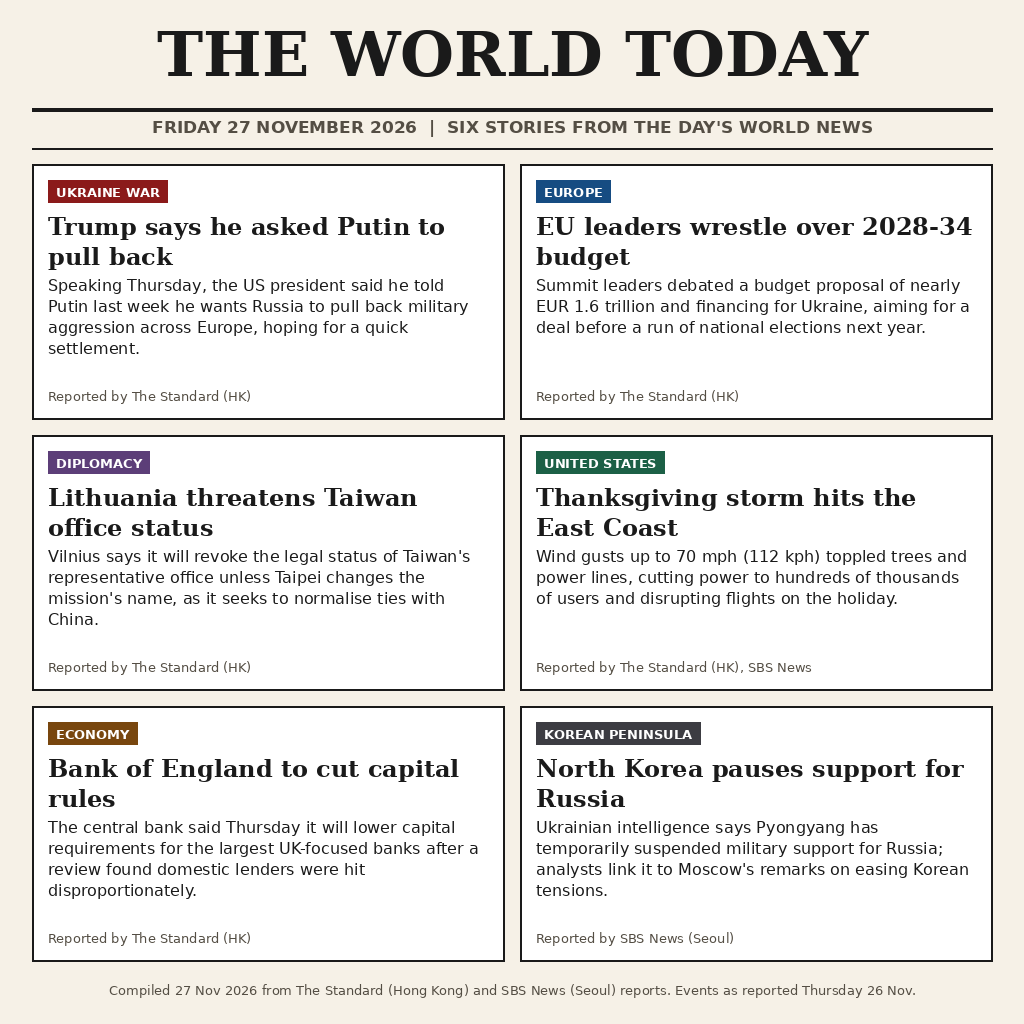
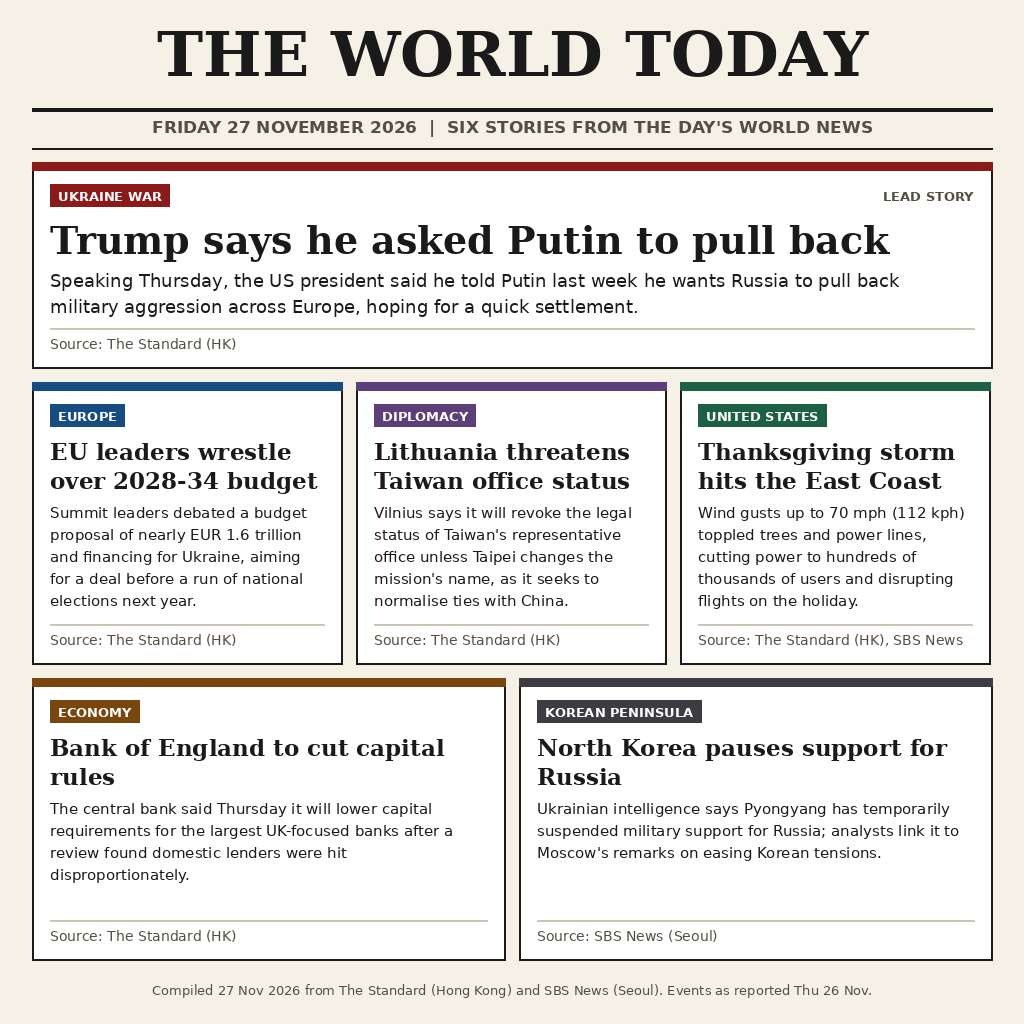
Give the page a lead story and roomier cards
Weaknesses seen on first render: all six cards had equal weight (no hierarchy),
and cards were cramped with orphaned headline words and uneven dead space.
Now: full-width lead (38px headline), 3+2 grid, colour-coded top bars, rules above
source lines; build asserts still guard overflow (it caught a too-short lead card).
Not fixed: the page is still text-only, with no imagery.

Changed region(s): [[0.0312, 0.1562, 0.9688, 0.875], [0.0312, 0.9062, 0.875, 0.9688]]

diff --git a/tools/build.py b/tools/build.py
@@ -105,9 +105,11 @@ def main():
     f_title = ImageFont.truetype(SERIF_B, 62)
     f_date = ImageFont.truetype(SANS_B, 17)
     f_tag = ImageFont.truetype(SANS_B, 13)
-    f_head = ImageFont.truetype(SERIF_B, 24)
-    f_body = ImageFont.truetype(SANS, 16)
-    f_src = ImageFont.truetype(SANS, 13)
+    f_head = ImageFont.truetype(SERIF_B, 23)
+    f_body = ImageFont.truetype(SANS, 15)
+    f_lead = ImageFont.truetype(SERIF_B, 38)
+    f_lead_body = ImageFont.truetype(SANS, 18)
+    f_src = ImageFont.truetype(SANS, 14)
     f_foot = ImageFont.truetype(SANS, 13)
 
     M = 32
@@ -123,38 +125,54 @@ def main():
     d.text((W // 2, 120), date, font=f_date, fill=MUTED, anchor="mt")
     d.rectangle([M, 148, W - M, 149], fill=INK)
 
-    # Cards: 2 columns x 3 rows
-    gap = 16
-    cw = (W - 2 * M - gap) // 2
-    top, bottom = 164, 962
-    ch = (bottom - top - 2 * gap) // 3
-    pad = 16
-    need_contrast(INK, CARD, "headline")
-    need_contrast(MUTED, CARD, "body/source")
-    need_contrast(WHITE, RED, "tag")
+    # Layout: full-width lead, then a row of 3 and a row of 2.
+    gap = 14
+    top, bottom = 162, 960
+    lead_h = 206
+    row_h = (bottom - top - lead_h - 2 * gap) // 2
+    full = W - 2 * M
+    c3 = (full - 2 * gap) // 3
+    c2 = (full - gap) // 2
+    slots = [(M, top, full, lead_h, True)]
+    y2 = top + lead_h + gap
+    slots += [(M + k * (c3 + gap), y2, c3, row_h, False) for k in range(3)]
+    y3 = y2 + row_h + gap
+    slots += [(M + k * (c2 + gap), y3, c2, row_h, False) for k in range(2)]
+    assert y3 + row_h <= bottom + 1, "cards overflow the page area"
+    assert len(slots) == len(STORIES)
 
-    for i, (tag, head, body, src, col) in enumerate(STORIES):
-        x = M + (i % 2) * (cw + gap)
-        y = top + (i // 2) * (ch + gap)
-        d.rectangle([x, y, x + cw, y + ch], fill=CARD, outline=INK, width=2)
+    need_contrast(INK, CARD, "headline/body")
+    need_contrast(MUTED, CARD, "source")
+    pad = 18
+    bar = 8
+
+    for i, ((tag, head, body, src, col), (x, y, w, h, lead)) in enumerate(zip(STORIES, slots)):
+        d.rectangle([x, y, x + w, y + h], fill=CARD, outline=INK, width=2)
+        d.rectangle([x, y, x + w, y + bar], fill=col)  # colour-coded top bar
         need_contrast(WHITE, col, f"tag colour {tag}")
+        fh = f_lead if lead else f_head
+        fb = f_lead_body if lead else f_body
+        lead_lh, body_lh = (44, 26) if lead else (29, 22)
+        iw = w - 2 * pad
         tw = int(d.textlength(tag, font=f_tag)) + 16
-        d.rectangle([x + pad, y + pad, x + pad + tw, y + pad + 22], fill=col)
-        d.text((x + pad + 8, y + pad + 4), tag, font=f_tag, fill=WHITE)
-        iw = cw - 2 * pad
-        hl = wrap(d, head, f_head, iw, 2, f"headline {i}")
-        cy = draw_lines(d, x + pad, y + pad + 32, hl, f_head, INK, 30)
-        bl = wrap(d, body, f_body, iw, 4, f"body {i}")
-        cy = draw_lines(d, x + pad, cy + 4, bl, f_body, INK, 21)
-        need_contrast(INK, CARD, "body")
-        src_text = "Reported by " + src
+        ty = y + bar + 14
+        d.rectangle([x + pad, ty, x + pad + tw, ty + 22], fill=col)
+        d.text((x + pad + 8, ty + 4), tag, font=f_tag, fill=WHITE)
+        if lead:
+            d.text((x + w - pad, ty + 4), "LEAD STORY", font=f_tag, fill=MUTED, anchor="ra")
+        hl = wrap(d, head, fh, iw, 2 if lead else 3, f"headline {i}")
+        cy = draw_lines(d, x + pad, ty + 34, hl, fh, INK, lead_lh)
+        bl = wrap(d, body, fb, iw, 3 if lead else 6, f"body {i}")
+        cy = draw_lines(d, x + pad, cy + 8, bl, fb, INK, body_lh)
+        src_text = "Source: " + src
         assert d.textlength(src_text, font=f_src) <= iw, f"source {i} overflows"
-        sy = y + ch - pad - 15
-        assert cy <= sy, f"card {i}: text collides with source line ({cy} > {sy})"
+        sy = y + h - pad - 14
+        assert cy + 6 <= sy, f"card {i}: text collides with source line ({cy} > {sy})"
+        d.rectangle([x + pad, sy - 8, x + w - pad, sy - 7], fill=(205, 198, 184))
         d.text((x + pad, sy), src_text, font=f_src, fill=MUTED)
 
     # Footer
-    foot = "Compiled 27 Nov 2026 from The Standard (Hong Kong) and SBS News (Seoul) reports. Events as reported Thursday 26 Nov."
+    foot = "Compiled 27 Nov 2026 from The Standard (Hong Kong) and SBS News (Seoul). Events as reported Thu 26 Nov."
     need_contrast(MUTED, PAPER, "footer")
     assert d.textlength(foot, font=f_foot) <= W - 2 * M, "footer overflows"
     d.text((W // 2, 984), foot, font=f_foot, fill=MUTED, anchor="mt")
